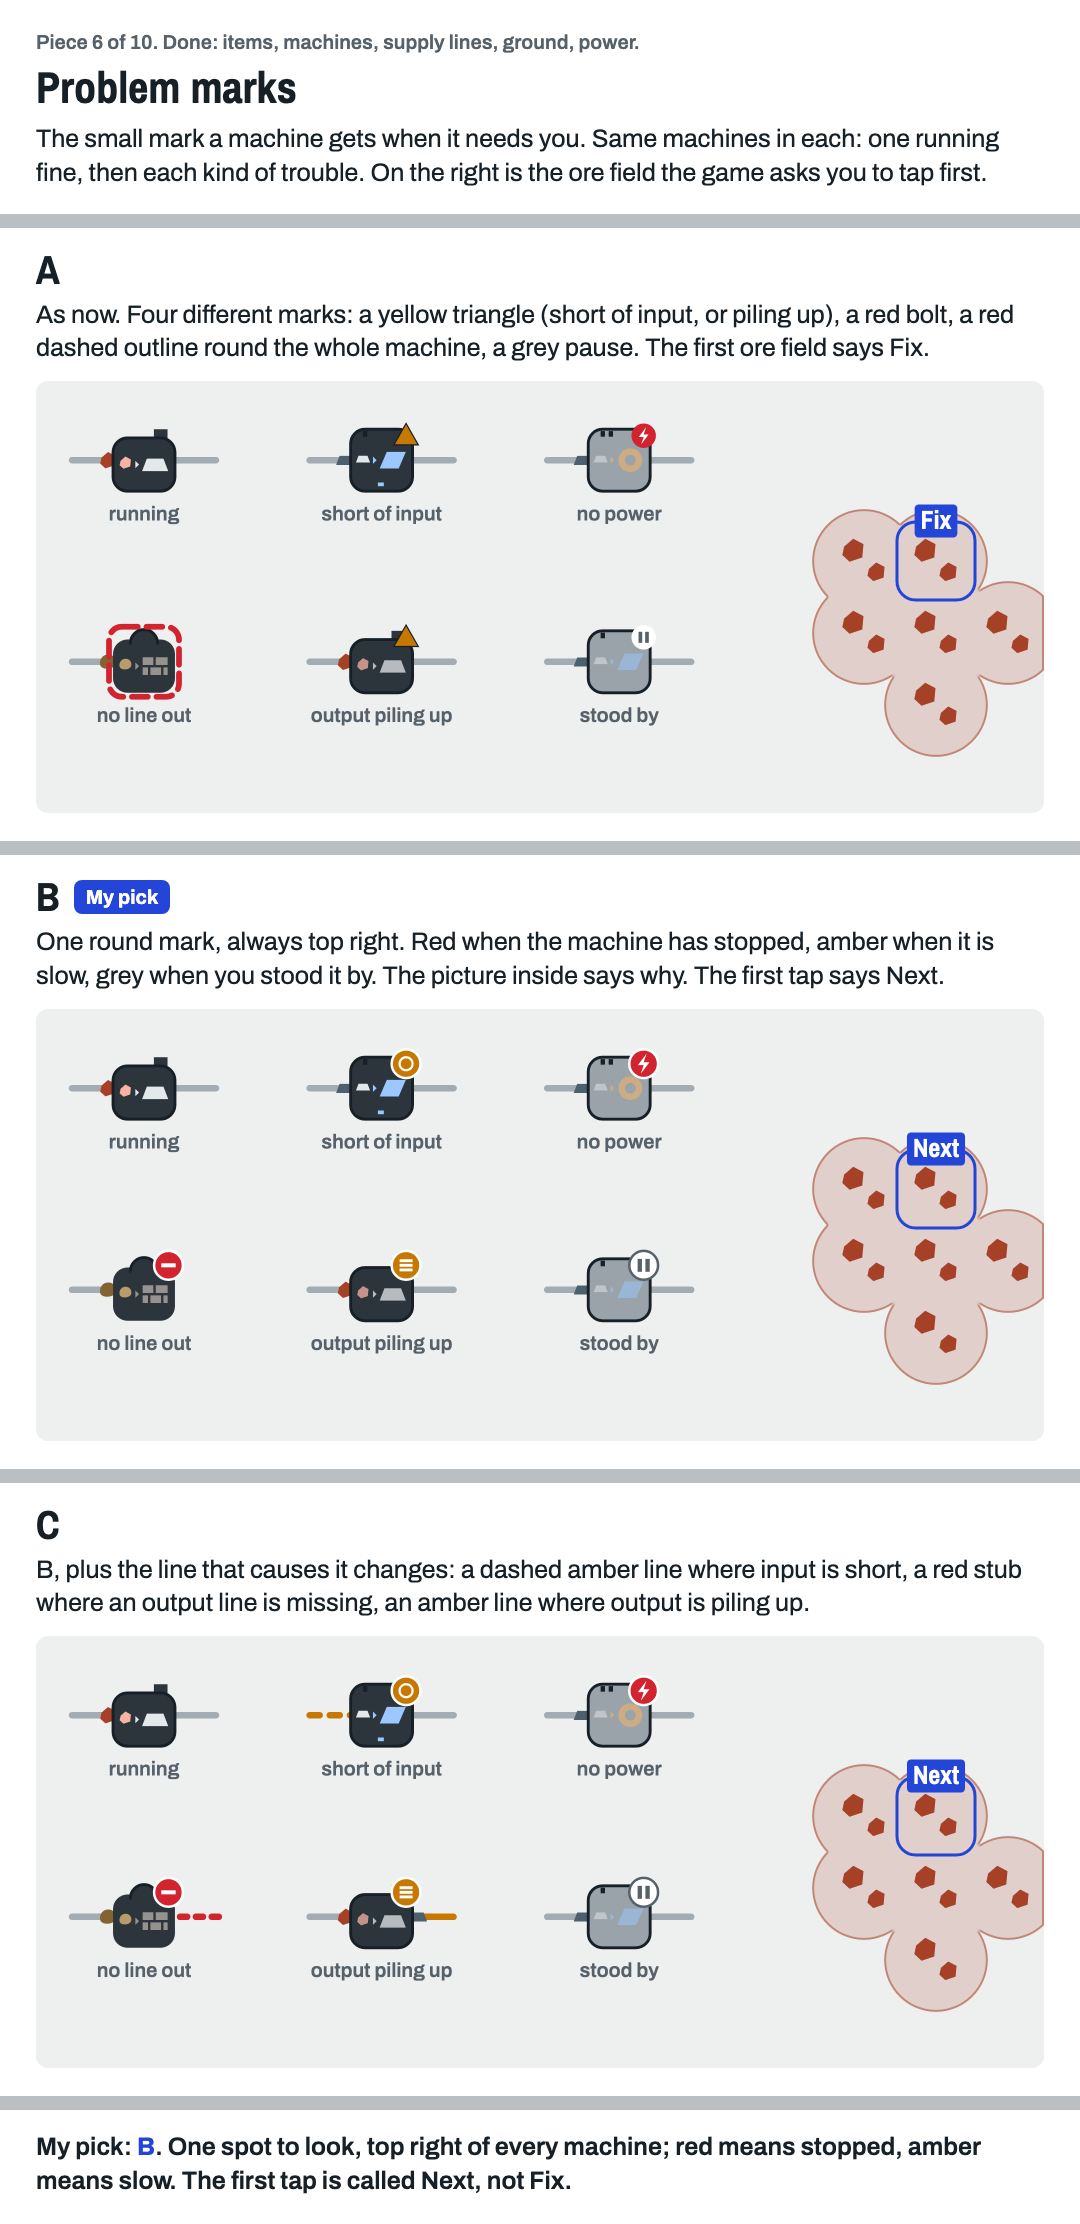
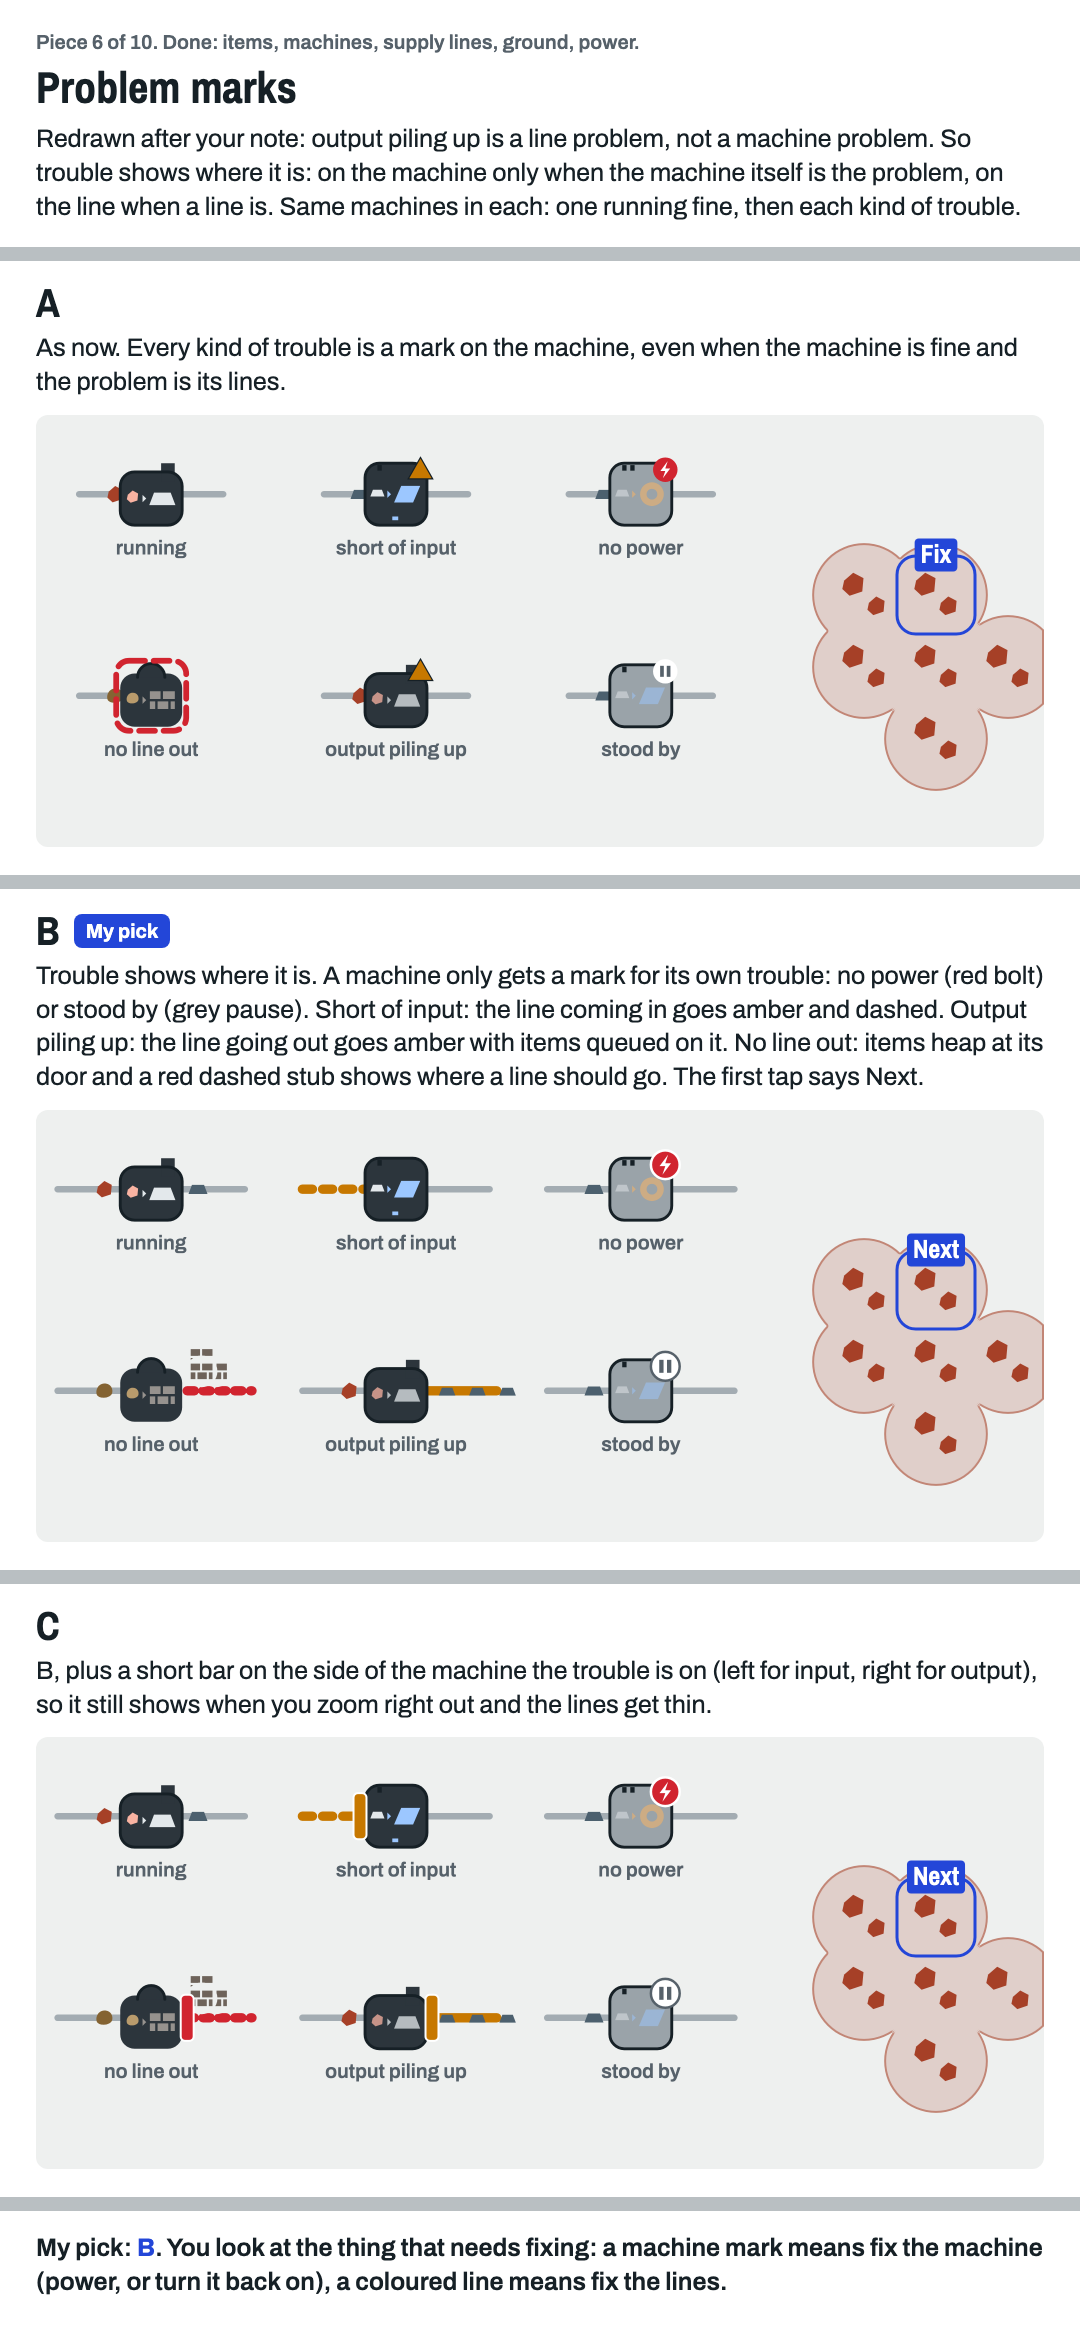
Piece 6 sheet redrawn: trouble shows where it is, machine or line (#19364890) (#17)

diff --git a/docs/pieces/6-status.html b/docs/pieces/6-status.html
@@ -1,5 +1,5 @@
 <!doctype html><html><head><meta charset="utf-8">
-<!-- Piece 6, status marks, 2026-11-09. How a machine says it needs you. Machines and the marks in A are
+<!-- Piece 6, status marks, 2026-11-09, redrawn after Byron #19364890: trouble shows where it is (machine or line). Machines and the marks in A are
 drawn by the game's own drawMachine and drawBuilding rules (sliced from src/build.js at load). Render:
 serve the repo root, open docs/pieces/6-status.html at 1080 px wide, screenshot the page to 6-status.png. -->
 <link href="https://fonts.googleapis.com/css2?family=Archivo:wght@400;600;700&family=Archivo+Narrow:wght@600;700&display=swap" rel="stylesheet">
@@ -19,9 +19,9 @@ canvas{display:block;border-radius:12px;width:1008px;height:432px}
 </style></head><body>
 <div class="h"><p class="prog">Piece 6 of 10. Done: items, machines, supply lines, ground, power.</p>
 <h1>Problem marks</h1>
-<p>The small mark a machine gets when it needs you. Same machines in each: one running fine, then each kind of trouble. On the right is the ore field the game asks you to tap first.</p></div>
+<p>Redrawn after your note: output piling up is a line problem, not a machine problem. So trouble shows where it is: on the machine only when the machine itself is the problem, on the line when a line is. Same machines in each: one running fine, then each kind of trouble.</p></div>
 <div id="opts"></div>
-<div class="f">My pick: <b>B</b>. One spot to look, top right of every machine; red means stopped, amber means slow. The first tap is called Next, not Fix.</div>
+<div class="f">My pick: <b>B</b>. You look at the thing that needs fixing: a machine mark means fix the machine (power, or turn it back on), a coloured line means fix the lines.</div>
 <script type="module">
 import { THEME as TH, SHAPE } from '../../src/theme.js';
 import * as G from '../../src/game.js';
@@ -35,8 +35,8 @@ const { drawMachine, drawItem } = new Function('TH', 'COL', 'COL_ON', 'PATH', 'G
 const Z = 72, NX = 14, NY = 6, W = NX * Z, H = NY * Z;
 const ctr = (x, y) => [x * Z + Z / 2, y * Z + Z / 2];
 // the row: [machine, x, y, state, words under it]
-const ROW = [['smelter', 1, 0.6, 'ok', 'running'], ['press', 4.3, 0.6, 'starved', 'short of input'], ['drawer', 7.6, 0.6, 'nopower', 'no power'],
-  ['kiln', 1, 3.4, 'noout', 'no line out'], ['smelter', 4.3, 3.4, 'backed', 'output piling up'], ['press', 7.6, 3.4, 'off', 'stood by']];
+const ROW = [['smelter', 1.1, 0.6, 'ok', 'running'], ['press', 4.5, 0.6, 'starved', 'short of input'], ['drawer', 7.9, 0.6, 'nopower', 'no power'],
+  ['kiln', 1.1, 3.4, 'noout', 'no line out'], ['smelter', 4.5, 3.4, 'backed', 'output piling up'], ['press', 7.9, 3.4, 'off', 'stood by']];
 const ORE = [[11, 2], [12, 2], [11, 3], [12, 3], [13, 3], [12, 4]];
 const IN = { smelter: [0, 1], press: [3, 1], drawer: [6, 1], kiln: [9, 1] }; // where each input line comes from (one tile left)
 
@@ -50,7 +50,7 @@ function patch(g, tiles, col) {
 }
 function lumps(g, x, y, k) { drawItem(g, k, x * Z + Z * .14, y * Z + Z * .14, Z * .42); drawItem(g, k, x * Z + Z * .5, y * Z + Z * .48, Z * .34); }
 function line(g, a, b, k, opt) { // a short supply line with one item riding it
-  const p = ctr(...a), q = ctr(...b); g.strokeStyle = opt.col || TH.supply; g.lineWidth = Z * .09; g.lineCap = 'round';
+  const p = ctr(...a), q = ctr(...b); g.strokeStyle = opt.col || TH.supply; g.lineWidth = Z * (opt.col ? .13 : .09); g.lineCap = 'round';
   if (opt.dash) g.setLineDash([Z * .14, Z * .14]); g.beginPath(); g.moveTo(...p); g.lineTo(...q); g.stroke(); g.setLineDash([]);
   if (k) drawItem(g, k, (p[0] + q[0]) / 2 - Z * .15, (p[1] + q[1]) / 2 - Z * .15, Z * .3);
 }
@@ -70,35 +70,51 @@ function markA(g, st, sx, sy) { // as drawBuilding does today
   else if (st === 'off') { g.fillStyle = TH.surface; g.beginPath(); g.arc(bx, by, r, 0, 7); g.fill(); glyph.pause(g, bx, by, r, TH.ink2); }
   else if (st === 'starved' || st === 'backed') { g.fillStyle = TH.warn; g.strokeStyle = TH.ink; g.lineWidth = 1.2; g.beginPath(); g.moveTo(bx, by - r); g.lineTo(bx + r, by + r * 0.75); g.lineTo(bx - r, by + r * 0.75); g.closePath(); g.fill(); g.stroke(); }
 }
-function markB(g, st, sx, sy) {
-  if (st === 'ok') return;
-  if (st === 'off') { const [bx, by, r] = badge(g, sx, sy, TH.surface, TH.ink2); glyph.pause(g, bx, by, r, TH.ink2); return; }
-  const col = st === 'starved' || st === 'backed' ? TH.warn : TH.bad; const [bx, by, r] = badge(g, sx, sy, col);
-  glyph[{ nopower: 'bolt', starved: 'empty', noout: 'stop', backed: 'full' }[st]](g, bx, by, r);
-}
 function chip(g, x, y, lab) { const px = x * Z, py = y * Z; g.strokeStyle = TH.accent; g.lineWidth = 3; g.beginPath(); g.roundRect(px - 3, py - 3, Z + 6, Z + 6, Z * .26); g.stroke();
   g.font = `700 ${Z * .36}px "Archivo Narrow"`; const tw = g.measureText(lab).width + 12, th = Z * .46;
   g.fillStyle = TH.accent; g.beginPath(); g.roundRect(px + Z / 2 - tw / 2, py - th / 2 - 4, tw, th, 4); g.fill();
   g.fillStyle = TH.accentInk; g.textAlign = 'center'; g.textBaseline = 'middle'; g.fillText(lab, px + Z / 2, py - 3); }
+// B and C: only machine trouble (no power, stood by) marks the machine; line trouble shows on the line
+function markMachine(g, st, sx, sy) {
+  if (st === 'off') { const [bx, by, r] = badge(g, sx, sy, TH.surface, TH.ink2); glyph.pause(g, bx, by, r, TH.ink2); }
+  if (st === 'nopower') { const [bx, by, r] = badge(g, sx, sy, TH.bad); glyph.bolt(g, bx, by, r); }
+}
+function stub(g, x, y, col, dash) { g.strokeStyle = col; g.lineWidth = Z * .13; g.lineCap = 'round'; if (dash) g.setLineDash([Z * .1, Z * .12]);
+  g.beginPath(); g.moveTo(x * Z + Z, y * Z + Z / 2); g.lineTo(x * Z + Z * 1.9, y * Z + Z / 2); g.stroke(); g.setLineDash([]); }
+function pile(g, x, y, k, n, step) { for (let j = n - 1; j >= 0; j--) { const ix = step ? x * Z + Z * 1.08 + j * Z * step : x * Z + Z * (1.02 + (j % 2) * .2), iy = step ? y * Z + Z * .32 : y * Z + Z * (.05 - (j > 1 ? .2 : 0)) - (j === 1 ? 0 : 0);
+  if (!step) { g.fillStyle = TH.terrain; g.beginPath(); g.arc(ix + Z * .18, iy + Z * .18, Z * .22, 0, 7); g.fill(); } drawItem(g, k, ix, iy + (step ? Z * .06 : 0), Z * (step ? .26 : .36)); } }
+function edge(g, x, y, side, col) { // C: a bar on the side of the machine the trouble is on
+  const px = side === 'in' ? x * Z - Z * .04 : x * Z + Z * .96; g.fillStyle = col; g.strokeStyle = '#ffffff'; g.lineWidth = 2;
+  g.beginPath(); g.roundRect(px - Z * .05, y * Z + Z * .18, Z * .18, Z * .64, Z * .06); g.fill(); g.stroke(); }
 
 function draw(g, opt) {
   g.fillStyle = TH.terrain; g.fillRect(0, 0, W, H);
   patch(g, ORE, TH.items.ore); for (const [x, y] of ORE) lumps(g, x, y, 'ore');
-  for (const [b, x, y, st] of ROW) { const from = [x - 1, y]; const k = Object.keys(G.BUILDINGS[b].in)[0];
-    const cut = opt === 'C' && st === 'starved'; line(g, from, [x, y], cut ? null : k, cut ? { col: TH.warn, dash: true } : {});
-    if (st !== 'noout') { const back = opt === 'C' && st === 'backed'; line(g, [x, y], [x + 1, y + 0], back ? outItem(b) : null, back ? { col: TH.warn } : {}); }
-    else if (opt === 'C') { g.strokeStyle = TH.bad; g.lineWidth = Z * .09; g.lineCap = 'round'; g.setLineDash([Z * .1, Z * .12]); g.beginPath(); g.moveTo(x * Z + Z, y * Z + Z / 2); g.lineTo(x * Z + Z * 1.55, y * Z + Z / 2); g.stroke(); g.setLineDash([]); } }
+  for (const [b, x, y, st] of ROW) { const k = Object.keys(G.BUILDINGS[b].in)[0]; const o = outItem(b);
+    if (opt === 'A') { line(g, [x - 1, y], [x, y], k, {}); if (st !== 'noout') line(g, [x, y], [x + 1, y], null, {}); continue; }
+    const short = st === 'starved';
+    line(g, [x - 1.3, y], [x, y], short ? null : k, short ? { col: TH.warn, dash: true } : {});
+    if (st === 'noout') stub(g, x, y, TH.bad, true);
+    else if (st === 'backed') line(g, [x, y], [x + 1.4, y], null, { col: TH.warn });
+    else line(g, [x, y], [x + 1.3, y], st === 'ok' ? o : null, {});
+  }
   for (const [b, x, y, st, words] of ROW) {
     drawMachine(g, b, x * Z, y * Z, Z, { off: st === 'off' || st === 'nopower', running: st === 'ok' || st === 'starved', t: 0.4 });
-    (opt === 'A' ? markA : markB)(g, st, x * Z, y * Z);
+    if (opt === 'A') markA(g, st, x * Z, y * Z); else markMachine(g, st, x * Z, y * Z);
+    if (opt !== 'A') { const o = outItem(b);
+      if (st === 'backed') pile(g, x, y, o, 3, .42); // queued along the line out
+      if (st === 'noout') pile(g, x, y, o, 3, 0);   // heaped at the door, nowhere to go
+      if (opt === 'C' && st === 'starved') edge(g, x, y, 'in', TH.warn);
+      if (opt === 'C' && st === 'backed') edge(g, x, y, 'out', TH.warn);
+      if (opt === 'C' && st === 'noout') edge(g, x, y, 'out', TH.bad); }
     g.fillStyle = TH.ink2; g.font = '600 20px Archivo'; g.textAlign = 'center'; g.textBaseline = 'top'; g.fillText(words, x * Z + Z / 2, y * Z + Z + 8);
   }
   chip(g, 12, 2, opt === 'A' ? 'Fix' : 'Next');
 }
 const OPTS = [
-  ['A', 'As now. Four different marks: a yellow triangle (short of input, or piling up), a red bolt, a red dashed outline round the whole machine, a grey pause. The first ore field says Fix.'],
-  ['B', 'One round mark, always top right. Red when the machine has stopped, amber when it is slow, grey when you stood it by. The picture inside says why. The first tap says Next.', true],
-  ['C', 'B, plus the line that causes it changes: a dashed amber line where input is short, a red stub where an output line is missing, an amber line where output is piling up.'],
+  ['A', 'As now. Every kind of trouble is a mark on the machine, even when the machine is fine and the problem is its lines.'],
+  ['B', 'Trouble shows where it is. A machine only gets a mark for its own trouble: no power (red bolt) or stood by (grey pause). Short of input: the line coming in goes amber and dashed. Output piling up: the line going out goes amber with items queued on it. No line out: items heap at its door and a red dashed stub shows where a line should go. The first tap says Next.', true],
+  ['C', 'B, plus a short bar on the side of the machine the trouble is on (left for input, right for output), so it still shows when you zoom right out and the lines get thin.'],
 ];
 await document.fonts.load('700 17px "Archivo Narrow"'); await document.fonts.load('600 20px Archivo');
 for (const [k, txt, pick] of OPTS) {
